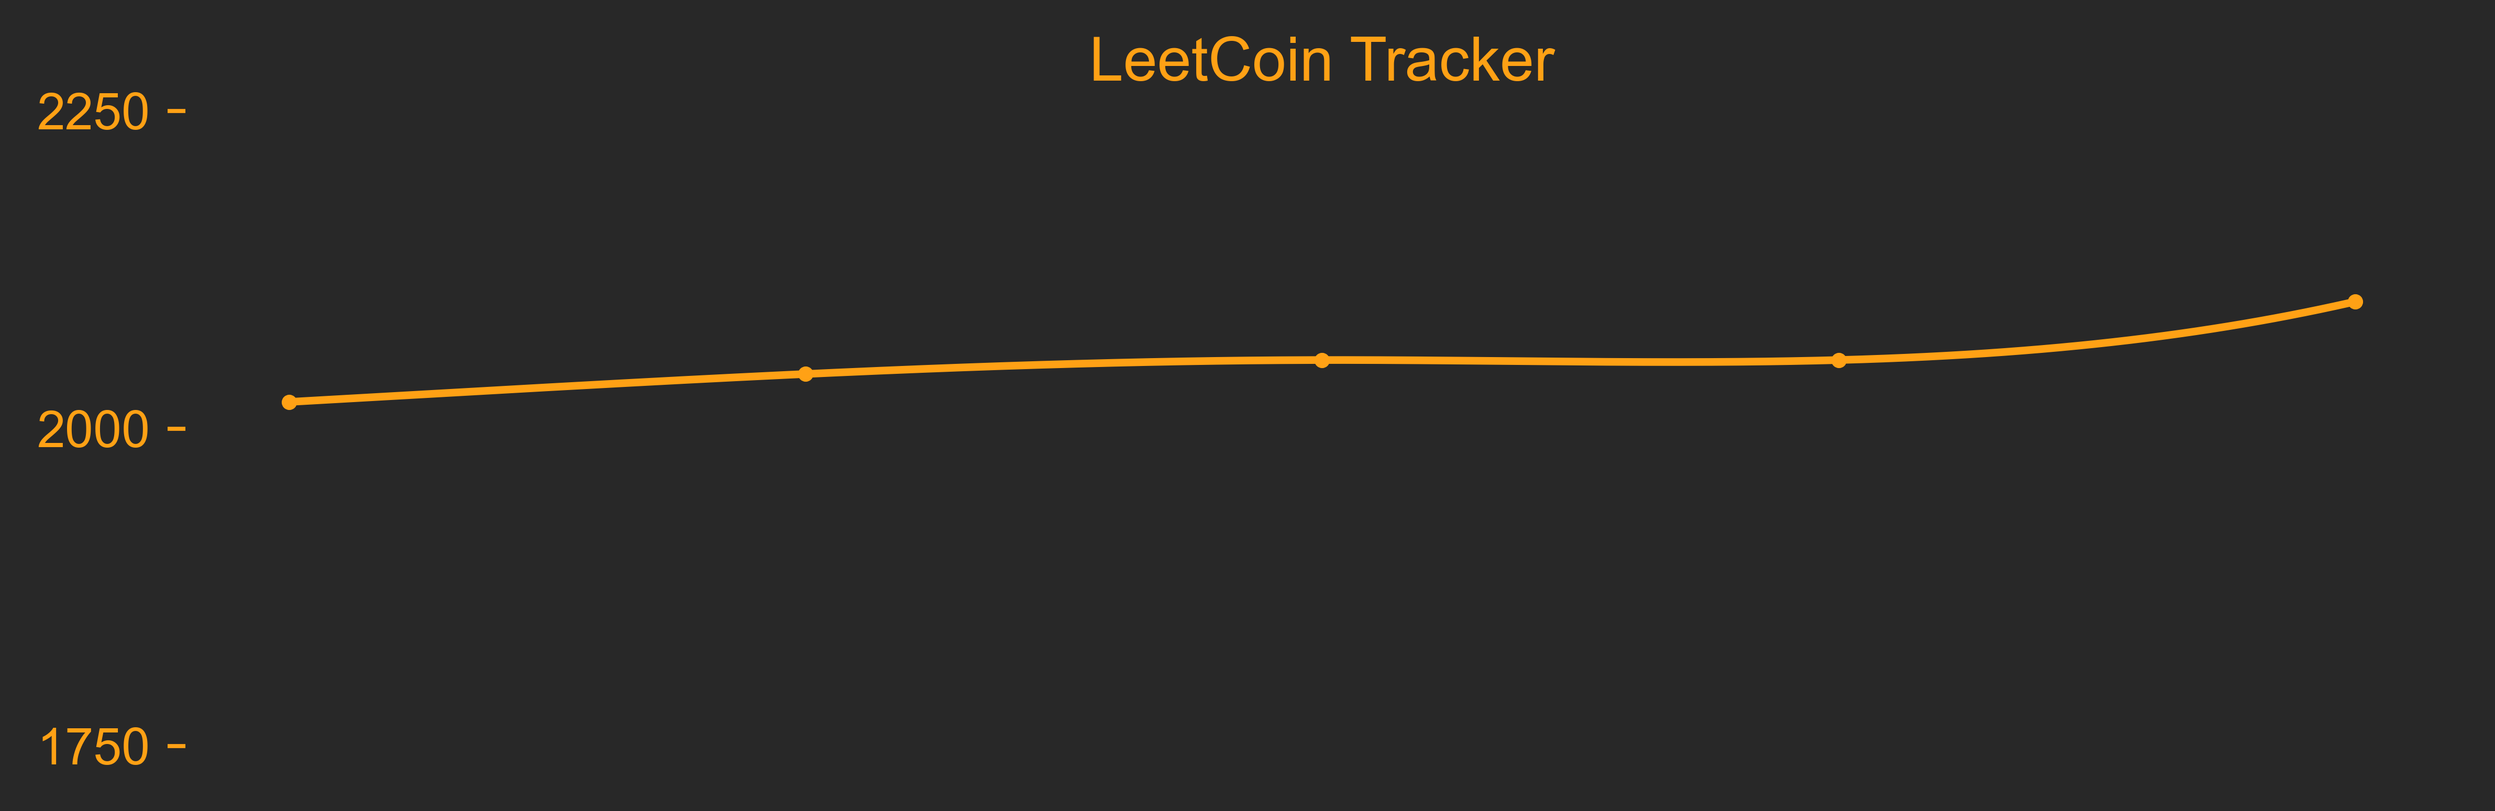
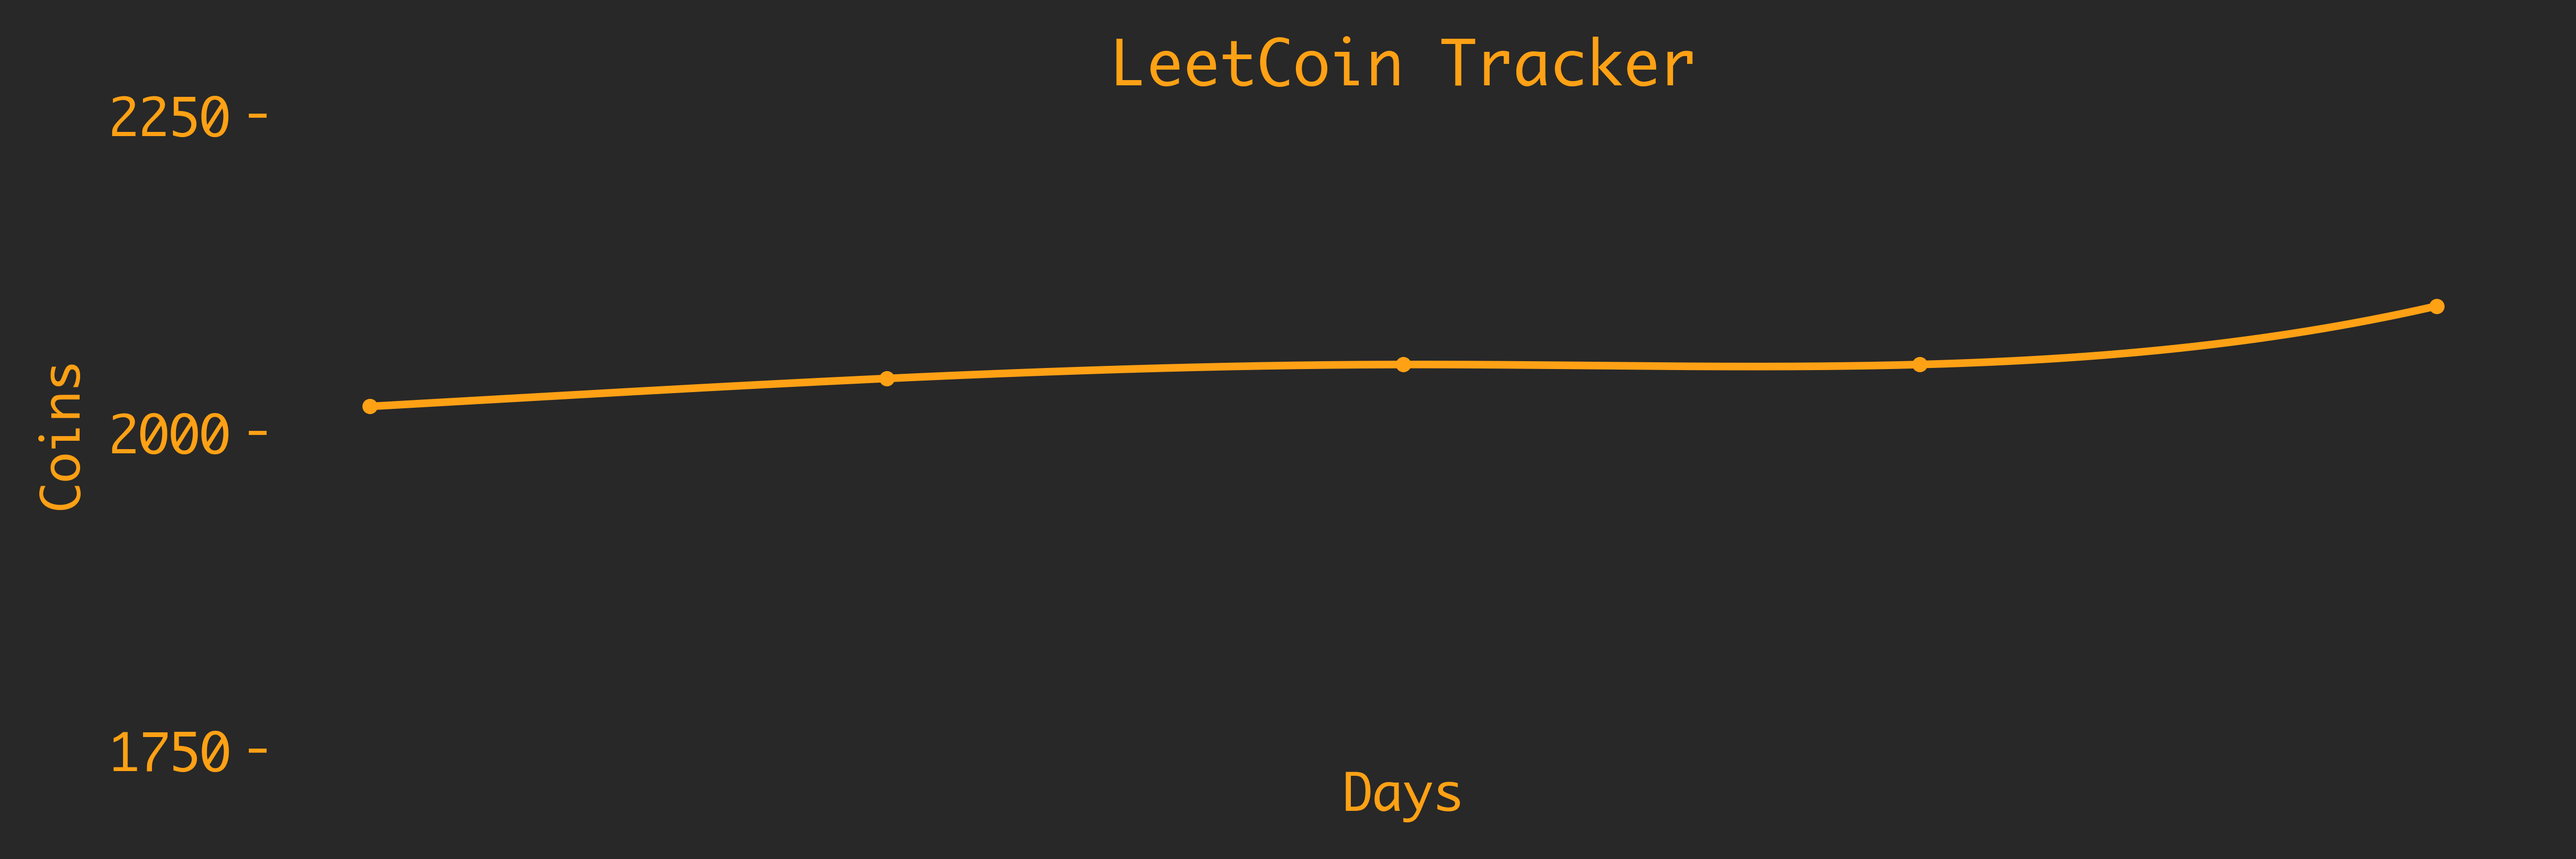
font changes and this is better

diff --git a/generate_graph.py b/generate_graph.py
@@ -3,9 +3,11 @@ import pandas as pd
 import numpy as np
 from scipy.interpolate import interp1d
 import matplotlib.patches as patches
+from matplotlib import font_manager
 
 
 def generate_graph(filename="data.csv"):
+    font_manager.findSystemFonts(fontpaths=None, fontext="ttf")
     LEETCODE_YELLOW = "#ffa115"
     df = pd.read_csv(filename)
     df["points"] = df["points"].astype(float)
@@ -23,7 +25,7 @@ def generate_graph(filename="data.csv"):
     cubic_interpolation_model = interp1d(x0, y0, kind="cubic")
     x = np.linspace(min(x0), max(x0), 5000)
     y = cubic_interpolation_model(x)
-    plt.title("LeetCoin Tracker")
+    plt.title("LeetCoin Tracker", fontname="Monaco")
     plt.plot(x, y, color=LEETCODE_YELLOW)
     plt.box(False)
     plt.tick_params(
@@ -36,9 +38,10 @@ def generate_graph(filename="data.csv"):
 
     fig = plt.gcf()
     fig.set_size_inches(8, 2.25)
-
+    plt.xlabel("Days", fontname = "Monaco")
+    plt.ylabel("Coins", fontname = "Monaco")
     if max(y0) < 4000:
-        plt.yticks(np.arange(min(y0) // 250 * 250 - 250, max(y0) + 250, 250))
+        plt.yticks(np.arange(min(y0) // 250 * 250 - 250, max(y0) + 250, 250), fontname = "Monaco")
     else:
         plt.yticks(np.arange(min(y0) // 1000 * 1000 - 1000, max(y0) + 1000, 1000))
 
